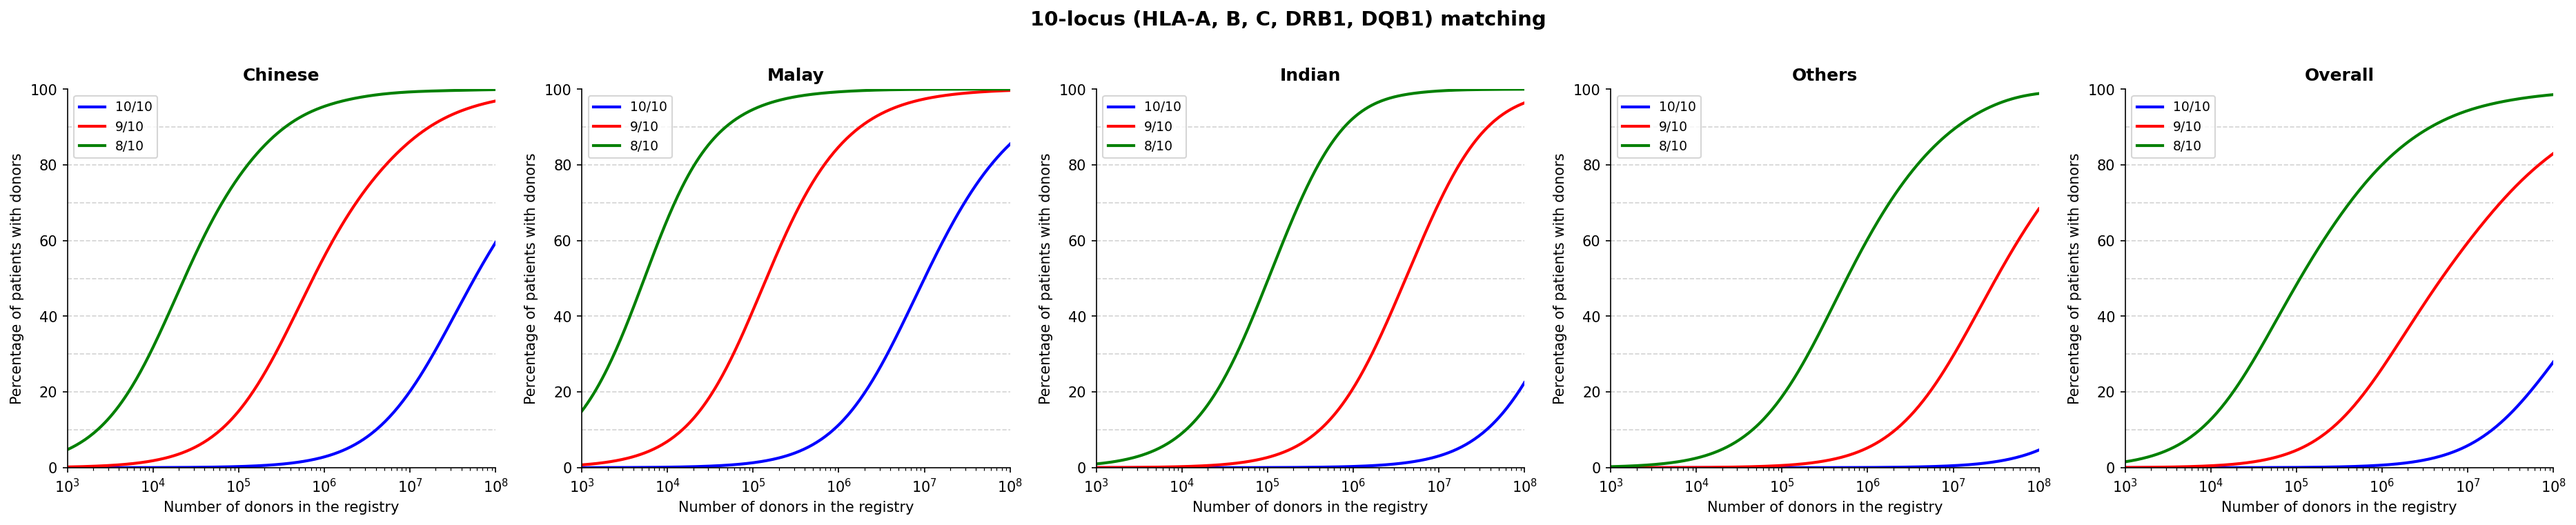
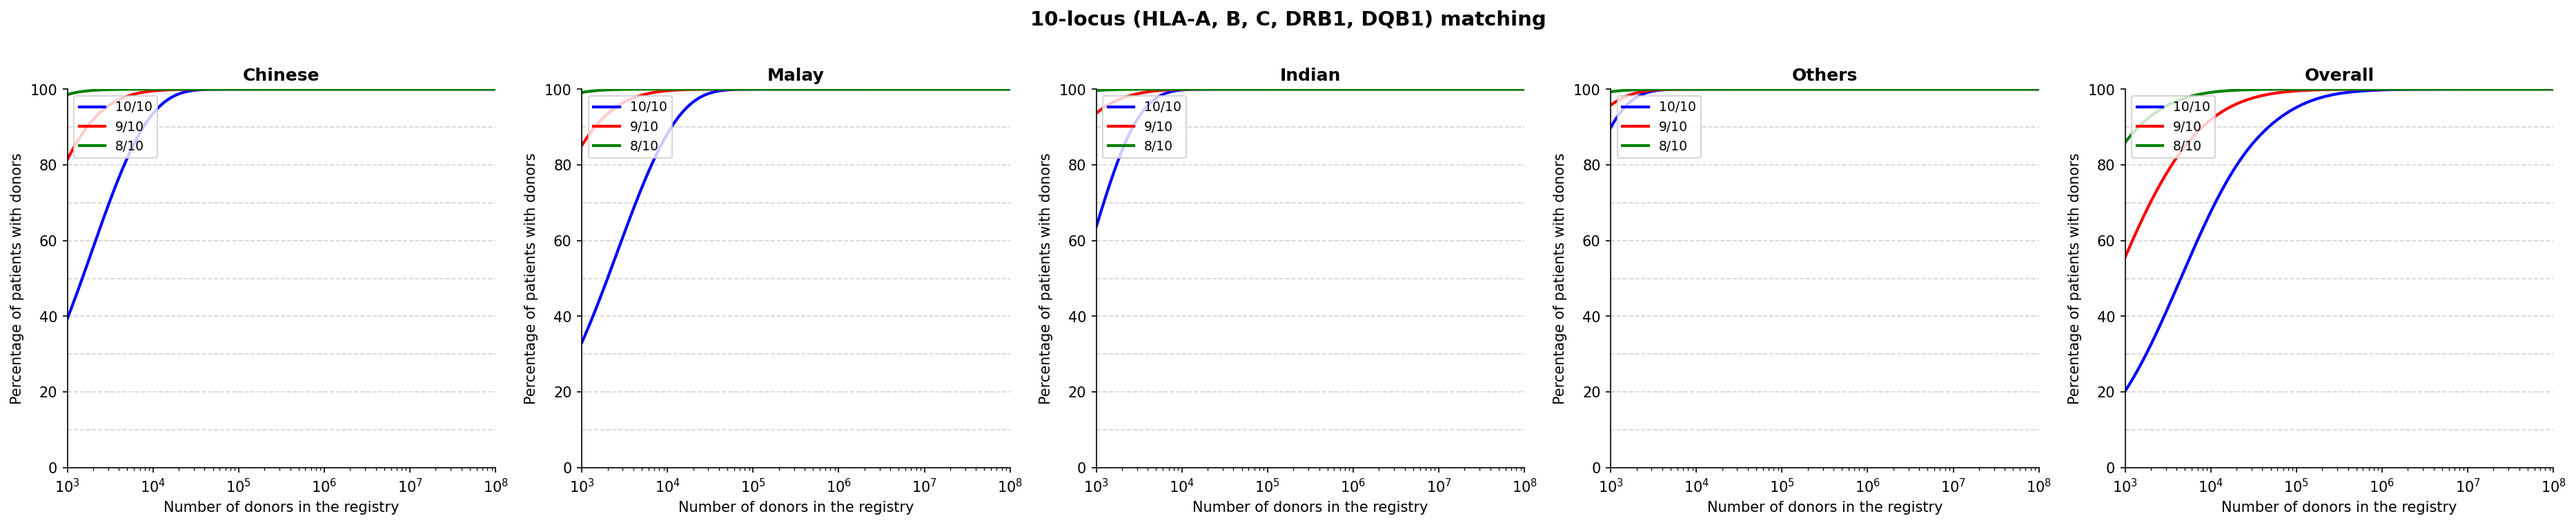
fix: partial match model uses haplotype enumeration to correctly capture LD
Replace per-locus allele frequency convolution with diplotype-pair enumeration
over EM haplotype frequencies, correctly accounting for linkage disequilibrium.

diff --git a/analysis/06_partial_match_plots.py b/analysis/06_partial_match_plots.py
@@ -4,6 +4,8 @@ Partial-match registry coverage curves for CMIO populations.
 Produces two figures matching WBMT Figure 5 style:
   - partial_match_10locus.png  (10/10, 9/10, 8/10)
   - partial_match_8locus.png   (8/8, 7/8, 6/8)
+
+Uses haplotype-pair enumeration to correctly capture linkage disequilibrium (LD).
 """
 
 import pandas as pd
@@ -12,7 +14,6 @@ import matplotlib
 matplotlib.use('Agg')
 import matplotlib.pyplot as plt
 import os
-from itertools import combinations_with_replacement
 
 HERE = os.path.dirname(os.path.abspath(__file__))
 DATA_DIR = os.path.join(HERE, 'data')
@@ -37,7 +38,7 @@ def parse_haplotypes(haplo_df, loci):
     haplo_df: DataFrame with columns [ethnicity, haplotype, frequency]
               haplotype = pipe-separated 5-locus alleles A|B|C|DRB1|DQB1
     loci:     list of locus names (LOCI_5 or LOCI_4)
-    Returns:  list of (allele_tuple, frequency)
+    Returns:  list of (allele_tuple, frequency), normalized to sum=1.0
     """
     n = len(loci)  # number of loci to use (4 or 5)
     records = {}
@@ -48,130 +49,88 @@ def parse_haplotypes(haplo_df, loci):
     total = sum(records.values())
     if total == 0:
         return []
+    # Normalize so frequencies sum to 1.0 (EM output may not include all haplotypes)
     return [(k, v / total) for k, v in records.items()]
 
 
-def get_allele_freqs_dict(allele_freq_df, ethnicity, loci):
-    """
-    Returns dict: {locus: {allele: frequency}}
-    Normalised per locus.
-    """
-    # Map locus names: allele_freqs_per_locus uses 'DRB1'/'DQB1' without prefix
-    # and 'HLA-A' etc. — check actual values
-    sub = allele_freq_df[allele_freq_df['ethnicity'] == ethnicity]
-    result = {}
-    for locus in loci:
-        lsub = sub[sub['locus'] == locus]
-        if lsub.empty:
-            result[locus] = {}
-            continue
-        d = dict(zip(lsub['allele'], lsub['frequency']))
-        total = sum(d.values())
-        if total > 0:
-            d = {a: f / total for a, f in d.items()}
-        result[locus] = d
-    return result
-
-
 # ---------------------------------------------------------------------------
-# Match probability computation
+# Vectorized allele match count
 # ---------------------------------------------------------------------------
 
-def locus_match_dist(p1, p2, freq_dict):
+def allele_match_count_matrix(pat_a, pat_b, don_a, don_b):
     """
-    Returns numpy array [P(0 match), P(1 match), P(2 match)] at one locus.
-    p1, p2: patient alleles at this locus
-    freq_dict: {allele: frequency} for this locus
+    pat_a, pat_b: shape (N_pat, n_loci) — patient allele arrays (object dtype)
+    don_a, don_b: shape (N_don, n_loci) — donor allele arrays (object dtype)
+    Returns: shape (N_pat, N_don) int8 — total allele match count per pair
     """
-    qp1 = freq_dict.get(p1, 0.0)
-    qp2 = freq_dict.get(p2, 0.0)
+    # Expand dims for broadcasting: (N_pat, 1, n_loci) vs (1, N_don, n_loci)
+    pa = pat_a[:, None, :]   # (N_pat, 1, n_loci)
+    pb = pat_b[:, None, :]
+    da = don_a[None, :, :]   # (1, N_don, n_loci)
+    db = don_b[None, :, :]
 
-    if p1 == p2:
-        # Homozygous patient
-        p = qp1
-        p2m = p * p
-        p1m = 2 * p * (1 - p)
-        p0m = (1 - p) ** 2
-    else:
-        # Heterozygous patient
-        p2m = 2 * qp1 * qp2
-        # P(1 match): donor has exactly one of p1 or p2
-        # = P(donor has p1 but not p2) + P(donor has p2 but not p1)
-        # donor genotype (x,y) with x<=y under HWE:
-        # More directly from multiset intersection:
-        # P(1 match) = q[p1]^2 + q[p2]^2
-        #            + 2*q[p1]*(1-q[p1]-q[p2])
-        #            + 2*q[p2]*(1-q[p1]-q[p2])
-        p1m = (qp1**2 + qp2**2
-               + 2 * qp1 * (1 - qp1 - qp2)
-               + 2 * qp2 * (1 - qp1 - qp2))
-        p0m = 1.0 - p2m - p1m
-
-    # Clip to [0, 1] to handle floating point edge cases
-    arr = np.array([p0m, p1m, p2m], dtype=np.float64)
-    arr = np.clip(arr, 0.0, 1.0)
-    arr /= arr.sum()
-    return arr
+    # Two possible allele assignments at each locus, take the better one
+    assign1 = (pa == da).astype(np.int8) + (pb == db).astype(np.int8)
+    assign2 = (pa == db).astype(np.int8) + (pb == da).astype(np.int8)
+    locus_match = np.maximum(assign1, assign2)  # (N_pat, N_don, n_loci)
+    return locus_match.sum(axis=2).astype(np.int8)  # (N_pat, N_don)
 
 
-def compute_diplotype_partial_match_probs(haplotypes, allele_freqs, loci, min_matches):
+def compute_partial_match_probs(haplotypes, match_thresholds):
     """
-    For each diplotype (h_p, h_q):
-      - compute P(total allele matches >= min_matches) against a random donor
-    Returns: (f_g_arr, p_match_arr) as numpy arrays.
+    haplotypes: list of (allele_tuple, frequency), normalized to sum=1
+    match_thresholds: list of ints, e.g. [8, 9, 10] for 10-locus
+    Returns: dict {threshold: (f_diplo, p_match)} where both are np.arrays
     """
-    n_loci = len(loci)
-    max_matches = 2 * n_loci
+    n = len(haplotypes)
+    if n == 0:
+        return {m: (np.array([]), np.array([])) for m in match_thresholds}
 
-    f_g_list = []
-    p_match_list = []
+    allele_tuples = [h for h, f in haplotypes]
+    freqs = np.array([f for h, f in haplotypes])
 
-    haps = haplotypes  # list of (allele_tuple, freq)
-    n_haps = len(haps)
+    # Parse haplotype alleles into arrays: shape (n, n_loci)
+    allele_array = np.array(allele_tuples, dtype=object)  # (n, n_loci)
 
-    for i in range(n_haps):
-        h_p, f_p = haps[i]
-        for j in range(i, n_haps):
-            h_q, f_q = haps[j]
+    # Build diplotype list (upper triangle including diagonal)
+    diplo_list = []
+    for i in range(n):
+        for j in range(i, n):
+            f = freqs[i] ** 2 if i == j else 2 * freqs[i] * freqs[j]
+            diplo_list.append((i, j, f))
 
-            # Diplotype frequency under HWE
-            if i == j:
-                f_g = f_p * f_q          # homozygous diplotype
-            else:
-                f_g = 2 * f_p * f_q      # heterozygous
+    idx_i = np.array([d[0] for d in diplo_list])
+    idx_j = np.array([d[1] for d in diplo_list])
+    f_diplo = np.array([d[2] for d in diplo_list])
 
-            if f_g < 1e-12:
-                continue
+    # Patient and donor diplotype allele arrays (same population pool)
+    pat_a = allele_array[idx_i]   # (N_diplo, n_loci)
+    pat_b = allele_array[idx_j]
+    don_a = allele_array[idx_i]   # (N_diplo, n_loci)
+    don_b = allele_array[idx_j]
 
-            # Convolve locus match distributions
-            d = np.zeros(max_matches + 1)
-            d[0] = 1.0
+    # Compute allele match count matrix: (N_diplo_patient, N_diplo_donor)
+    total_match = allele_match_count_matrix(pat_a, pat_b, don_a, don_b)
 
-            for li, locus in enumerate(loci):
-                p1 = h_p[li]
-                p2 = h_q[li]
-                lmd = locus_match_dist(p1, p2, allele_freqs[locus])
-                d = np.convolve(d, lmd)[:max_matches + 1]
+    results = {}
+    for m in match_thresholds:
+        # p_match[i] = Σ_j f_diplo[j] * I[total_match[i,j] >= m]
+        p_match = (total_match >= m).astype(np.float64) @ f_diplo
+        results[m] = (f_diplo, p_match)
 
-            # P(total >= min_matches)
-            p_m = float(d[min_matches:].sum())
-
-            f_g_list.append(f_g)
-            p_match_list.append(p_m)
-
-    return np.array(f_g_list), np.array(p_match_list)
+    return results
 
 
-def coverage_curve(f_g_arr, p_m_arr, n_values):
+def coverage_curve(f_diplo, p_match, n_values):
     """
     Vectorised coverage curve computation.
     Returns array of shape (len(n_values),).
     """
-    if len(f_g_arr) == 0:
+    if len(f_diplo) == 0:
         return np.zeros(len(n_values))
     # Shape: (K, len(N)) — then sum over K
-    contrib = f_g_arr[:, None] * (1 - np.power(
-        np.clip(1 - p_m_arr[:, None], 0, 1),
+    contrib = f_diplo[:, None] * (1.0 - np.power(
+        np.clip(1.0 - p_match[:, None], 0, 1),
         n_values[None, :]
     ))
     return contrib.sum(axis=0)
@@ -184,7 +143,7 @@ def coverage_curve(f_g_arr, p_m_arr, n_values):
 def build_combined_haplotypes(haplo_by_eth, loci):
     """
     Weighted combination of per-ethnicity haplotypes.
-    Returns list of (allele_tuple, frequency).
+    Returns list of (allele_tuple, frequency), normalized to sum=1.
     """
     combined = {}
     for eth, haps in haplo_by_eth.items():
@@ -194,26 +153,7 @@ def build_combined_haplotypes(haplo_by_eth, loci):
     total = sum(combined.values())
     if total == 0:
         return []
-    return [(k, v / total) for k, v in combined.items()]
-
-
-def build_combined_allele_freqs(allele_freqs_by_eth, loci):
-    """
-    Weighted average allele frequencies across ethnicities.
-    Returns {locus: {allele: freq}}, normalised.
-    """
-    combined = {locus: {} for locus in loci}
-    for eth, afreqs in allele_freqs_by_eth.items():
-        w = SG_WEIGHTS[eth]
-        for locus in loci:
-            for allele, freq in afreqs.get(locus, {}).items():
-                combined[locus][allele] = combined[locus].get(allele, 0.0) + w * freq
-    # Normalise each locus
-    for locus in loci:
-        total = sum(combined[locus].values())
-        if total > 0:
-            combined[locus] = {a: f / total for a, f in combined[locus].items()}
-    return combined
+    return [(k, v / total) for k, v in sorted(combined.items(), key=lambda x: -x[1])]
 
 
 # ---------------------------------------------------------------------------
@@ -265,10 +205,6 @@ def make_figure(eth_curves_dict, match_levels, framework_name, out_path):
 def main():
     # Load data
     haplo_df = pd.read_csv(os.path.join(DATA_DIR, 'haplo_freqs_em.csv'))
-    allele_df = pd.read_csv(os.path.join(DATA_DIR, 'allele_freqs_per_locus.csv'))
-
-    # Check locus names in allele_df
-    print("Loci in allele_freqs:", sorted(allele_df['locus'].unique()))
 
     for framework_name, loci, match_levels, out_fname in [
         (
@@ -287,46 +223,48 @@ def main():
         print(f"\n=== {framework_name} ===")
         eth_curves_dict = {}
         haplo_by_eth = {}
-        afreqs_by_eth = {}
+        match_thresholds = [ml[0] for ml in match_levels]
 
         for eth in ETHNICITIES:
             print(f"  Processing {eth}...")
             eth_haplo_df = haplo_df[haplo_df['ethnicity'] == eth]
             haplotypes = parse_haplotypes(eth_haplo_df, loci)
-            allele_freqs = get_allele_freqs_dict(allele_df, eth, loci)
             haplo_by_eth[eth] = haplotypes
-            afreqs_by_eth[eth] = allele_freqs
+            print(f"    {len(haplotypes)} haplotypes loaded")
+
+            partial_match_results = compute_partial_match_probs(haplotypes, match_thresholds)
 
             curves = {}
             for min_m, label, color in match_levels:
-                f_g_arr, p_m_arr = compute_diplotype_partial_match_probs(
-                    haplotypes, allele_freqs, loci, min_m
-                )
-                curves[min_m] = coverage_curve(f_g_arr, p_m_arr, N_VALUES)
+                f_diplo, p_match = partial_match_results[min_m]
+                curves[min_m] = coverage_curve(f_diplo, p_match, N_VALUES)
             eth_curves_dict[eth] = curves
 
-            # Sanity check at N=1,000,000
+            # Sanity check at N=100K and N=1M
+            idx_100k = np.searchsorted(N_VALUES, 1e5)
             idx_1m = np.searchsorted(N_VALUES, 1e6)
             for min_m, label, _ in match_levels:
-                val = curves[min_m][idx_1m] * 100
-                print(f"    {label} @ N=1M: {val:.1f}%")
+                v100k = curves[min_m][idx_100k] * 100
+                v1m = curves[min_m][idx_1m] * 100
+                print(f"    {label} @ N=100K: {v100k:.1f}%   @ N=1M: {v1m:.1f}%")
 
         # Overall
         print("  Processing Overall...")
         combined_haps = build_combined_haplotypes(haplo_by_eth, loci)
-        combined_afreqs = build_combined_allele_freqs(afreqs_by_eth, loci)
+        print(f"    {len(combined_haps)} combined haplotypes")
+        partial_match_results = compute_partial_match_probs(combined_haps, match_thresholds)
         curves = {}
         for min_m, label, color in match_levels:
-            f_g_arr, p_m_arr = compute_diplotype_partial_match_probs(
-                combined_haps, combined_afreqs, loci, min_m
-            )
-            curves[min_m] = coverage_curve(f_g_arr, p_m_arr, N_VALUES)
+            f_diplo, p_match = partial_match_results[min_m]
+            curves[min_m] = coverage_curve(f_diplo, p_match, N_VALUES)
         eth_curves_dict['Overall'] = curves
 
+        idx_100k = np.searchsorted(N_VALUES, 1e5)
         idx_1m = np.searchsorted(N_VALUES, 1e6)
         for min_m, label, _ in match_levels:
-            val = curves[min_m][idx_1m] * 100
-            print(f"    Overall {label} @ N=1M: {val:.1f}%")
+            v100k = curves[min_m][idx_100k] * 100
+            v1m = curves[min_m][idx_1m] * 100
+            print(f"    Overall {label} @ N=100K: {v100k:.1f}%   @ N=1M: {v1m:.1f}%")
 
         out_path = os.path.join(FIG_DIR, out_fname)
         make_figure(eth_curves_dict, match_levels, framework_name, out_path)
